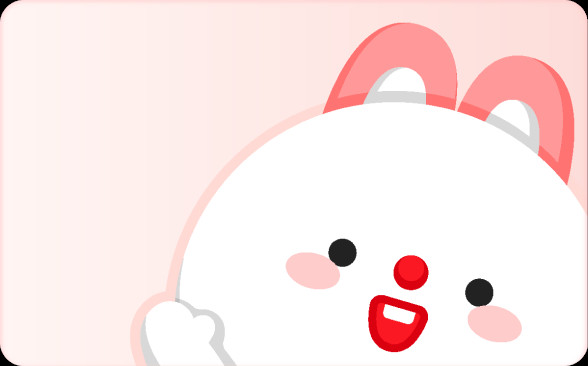
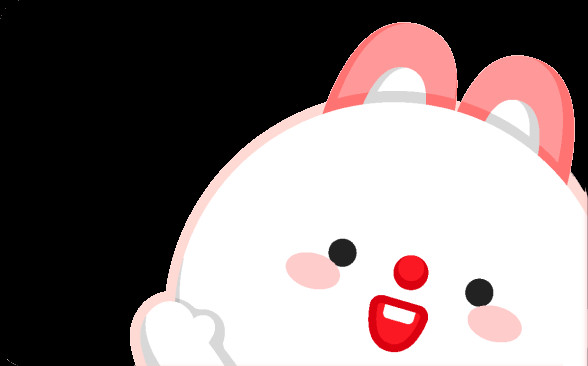
modified:   public/images/test-home.jpg 	modified:   src/app/test-home/page.tsx 	modified:   src/app/test-home/test-home.css

diff --git a/src/app/test-home/page.tsx b/src/app/test-home/page.tsx
@@ -9,8 +9,7 @@ export default function TestHomePage() {
 
   return (
     <div className="test-home-wrapper">
-      
-      <div className="test-home-overlay"></div>
+      <div className="test-home-bg">      
 
       <div className="test-home-content">
         <h1 className="test-home-title">내게 맞는 혜택 테스트</h1>
@@ -20,6 +19,8 @@ export default function TestHomePage() {
         >
           시작하기
         </button>
+      </div>
+      
       </div>
     </div>
   );

diff --git a/src/app/test-home/test-home.css b/src/app/test-home/test-home.css
@@ -26,8 +26,13 @@
 }
 
 .test-home-bg {
-  object-fit: cover;
-  object-position: center;
+  /*object-fit: cover;
+  object-position: center;*/
+  background-image: url('/images/test-home.jpg');
+  background-position: bottom center; 
+  background-repeat: no-repeat;       
+  background-size: cover;             
+  width: 100%;
 }
 
 .test-home-overlay {
